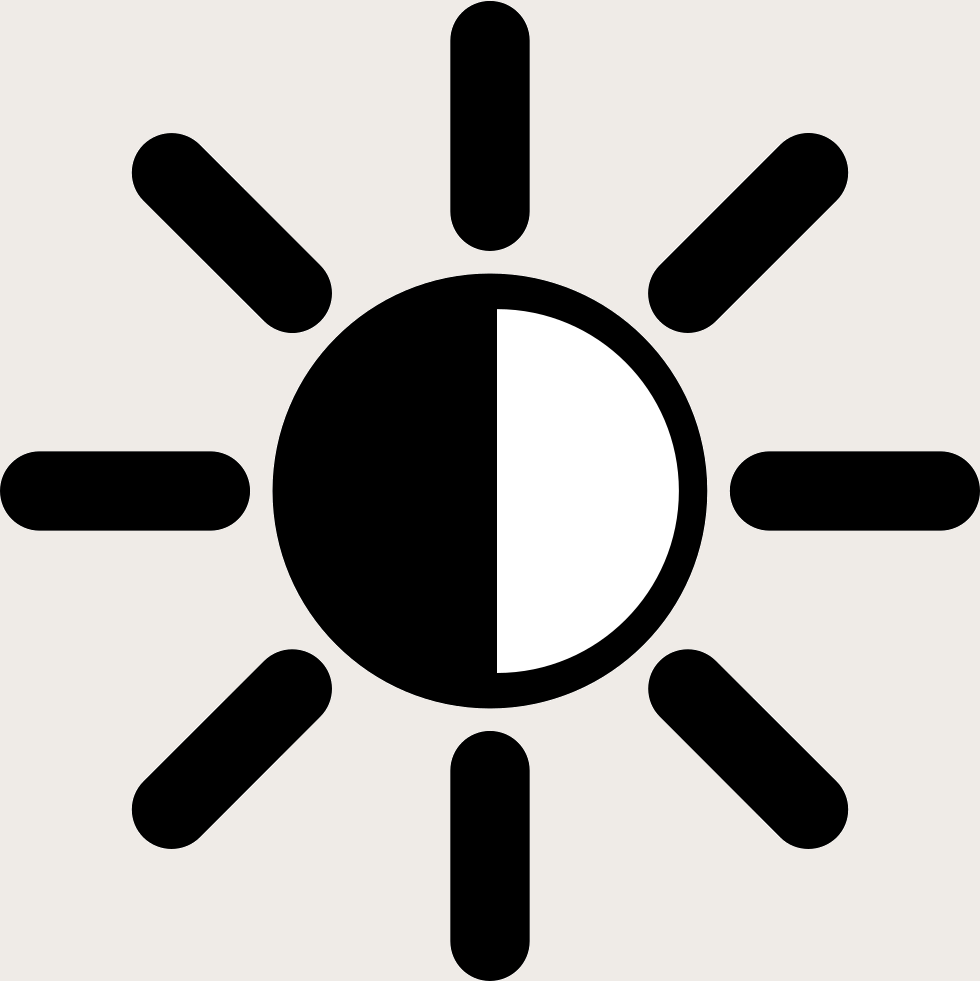
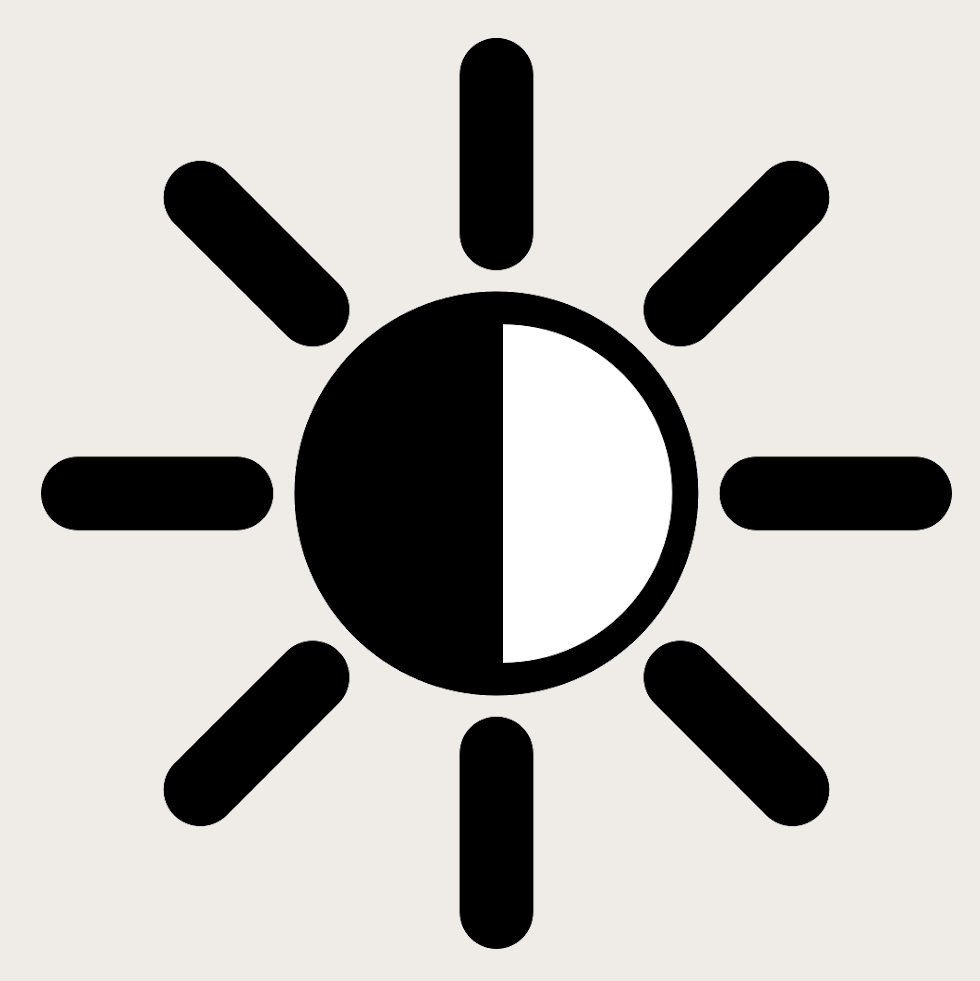
Dodate neke ikonice,tutorial skoro zavrsen

diff --git a/ipc.py b/ipc.py
@@ -21,7 +21,6 @@ import imageOperations as io
 import os,threading,time
 import atexit
 
-
 image_path="./assets/white.jpeg"
 im = Image.open("./assets/white.jpeg")
 old = []
@@ -38,7 +37,9 @@ class TutorialPopup(Popup):
     
     ck_box = ObjectProperty(None)
     lbl1 = ObjectProperty(None)
+    icons_img = ObjectProperty(None)
     no_tip = 0
+    max_tips = 10
 
     def close_popup(self):
         if self.ck_box.active:
@@ -53,12 +54,31 @@ class TutorialPopup(Popup):
     def show_next_tip(self):
 
         self.no_tip = self.no_tip + 1
-        if self.no_tip == 1:
-            self.lbl1.text = ("Tool Sheet:\n" +
-            "0  1  2  3\n" + "4  5  6  7\n" + "8  9  10 11\n" + "12 13 14 15\n" +
-            "0 - Area Selection\n"
-            "1 - Calibration Tool - Must use if image is not 16:9 ration,Use Mouse Click\non lower left side of the picture and release on upper rigth to Calibrate area selection tool")
+        if self.no_tip == self.max_tips:
+            return
 
+        if self.no_tip == 0:
+            self.icons_img.size_hint = 0,0
+            self.lbl1.text = "Here are some things you should know..."
+
+        if self.no_tip == 1:
+            self.lbl1.text = ""
+            self.icons_img.pos_hint = {"y":0.25,"x":0.25}
+            self.icons_img.size_hint = 0.5,0.5
+            self.icons_img.source = "./assets/Tutorial.png"
+
+        if self.no_tip == 2:
+            self.icons_img.size_hint = 0,0
+            self.lbl1.text = ("0 - Area Selection\n"
+                            "1 - Calibration Tool - Must use if image is not 16:9 ration,Use Mouse Click\non lower left side of the picture and release on upper rigth to Calibrate area selection tool")
+
+    def show_previous_tip(self):
+
+        if self.no_tip == 0:
+            return
+
+        self.no_tip = self.no_tip - 2
+        self.show_next_tip()
 
 class CustomPopup(Popup):
 
@@ -111,7 +131,6 @@ class CustomPopup(Popup):
             if ext=='BMP' or ext=='JPEG' or ext=='PNG':
                 image=im.convert('RGB')
                 image.save(url,ext)
-                pass
         except ValueError:
             print('ValueError')
         except IOError:
